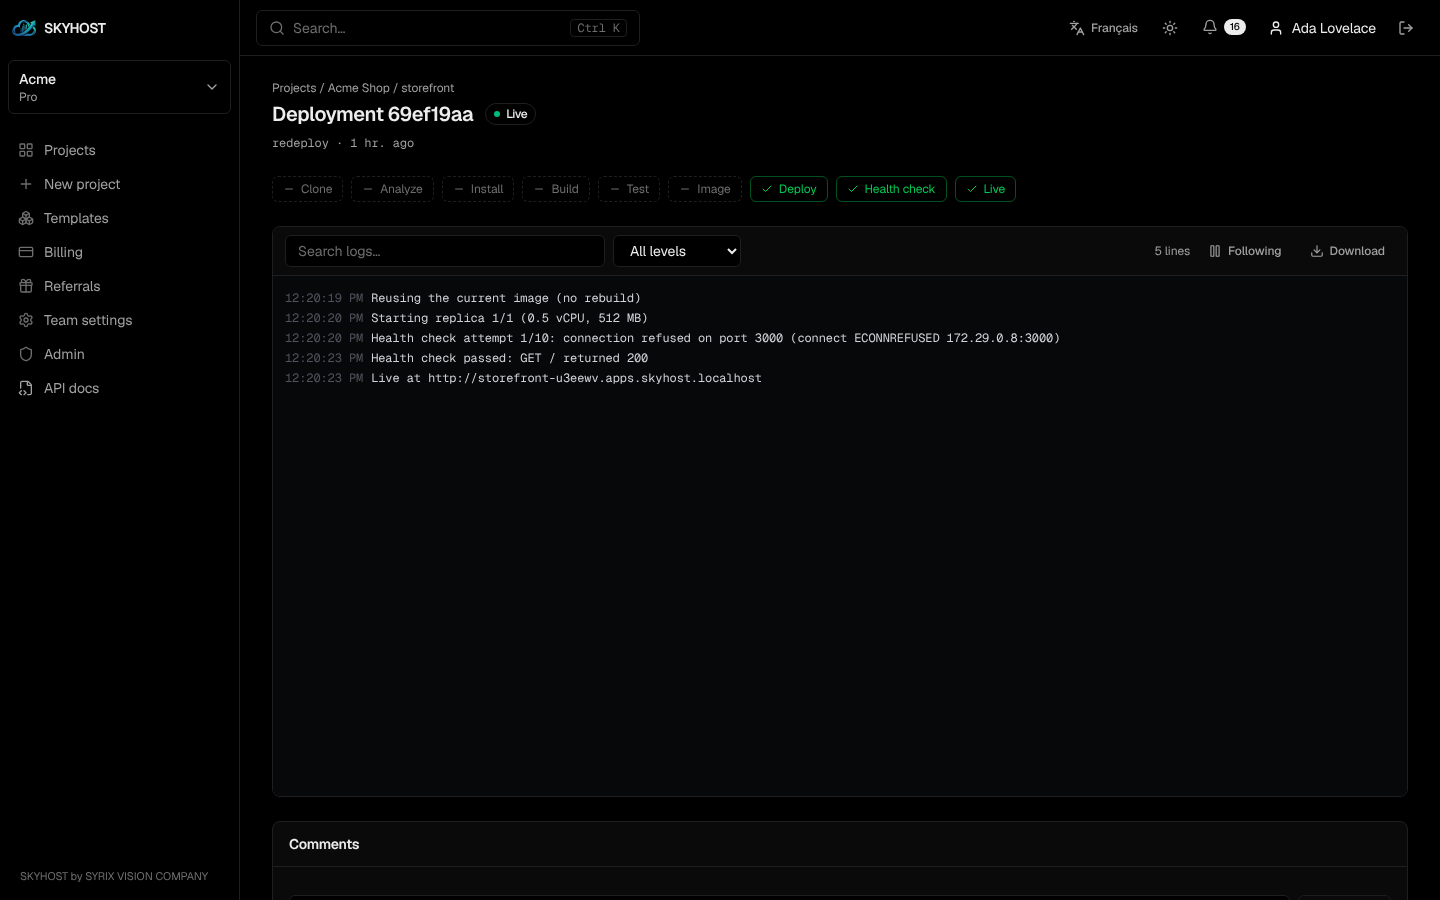
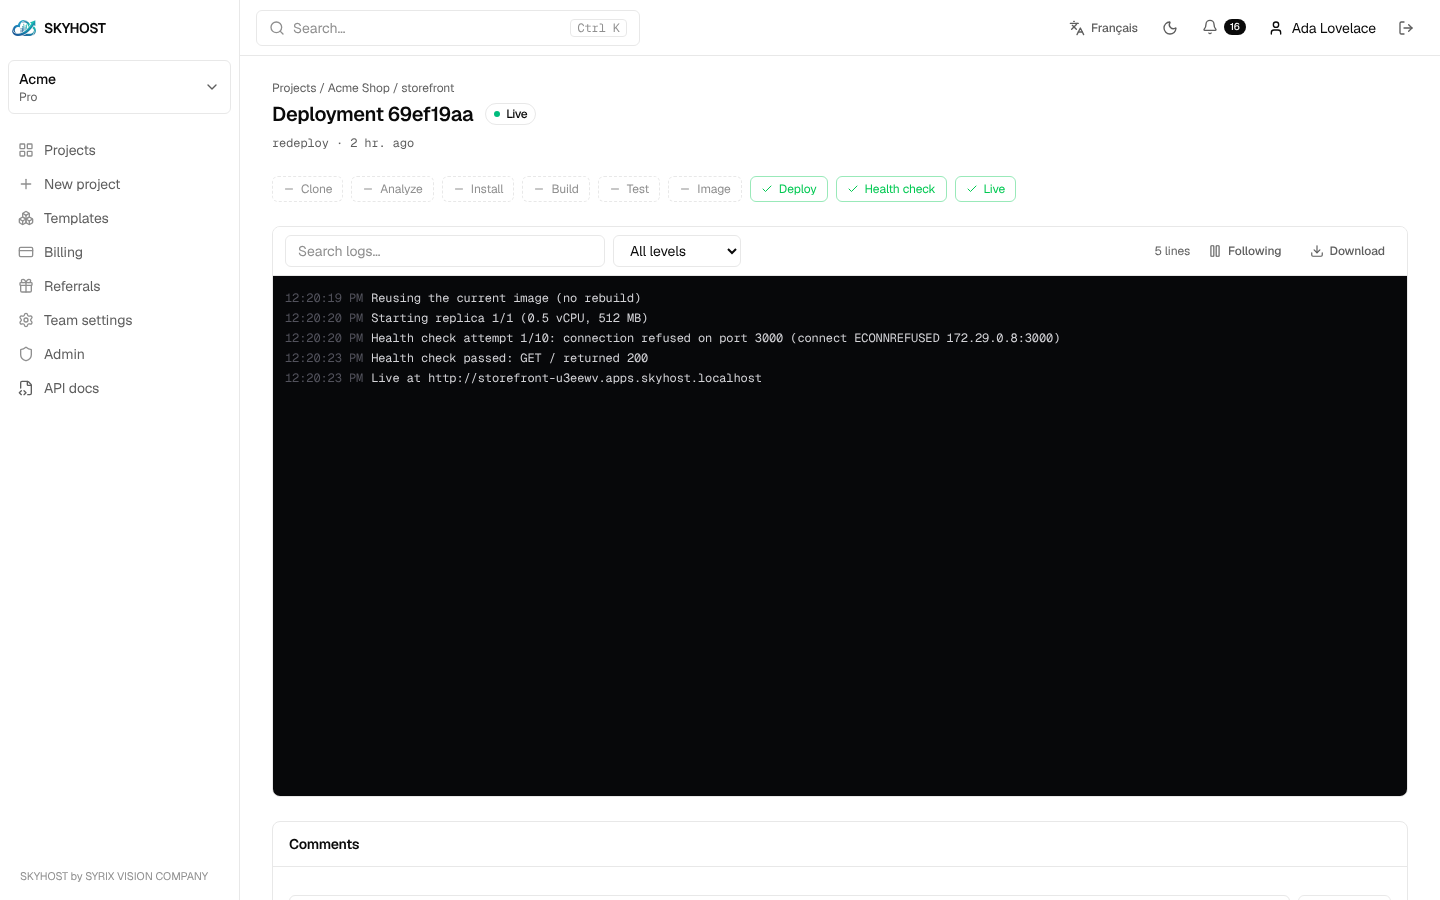
Make the light theme the default, with dark mode in account settings
The dashboard now opens in light mode. Dark mode is chosen in Account →
Appearance (or with the header toggle) and remembered in the browser.
Screenshots are refreshed in the light theme, with one dark-mode capture.

Claude-Session: https://claude.ai/code/session_01HM99gHDo1fmcDD451DGnML

diff --git a/apps/web/src/pages/Account.tsx b/apps/web/src/pages/Account.tsx
@@ -5,11 +5,12 @@ import { useTranslation } from "react-i18next";
 import { del, download, get, patch, post, put } from "../lib/api";
 import { setLanguage } from "../lib/i18n";
 import { useSession } from "../lib/session";
-import { Alert, Badge, Button, Card, CodeField, ConfirmDialog, Field, Input, LoadingRows, Modal, PageHeader, Select, Tabs, Toggle, timeAgo, useToast } from "../components/ui";
+import { Alert, Badge, Button, Card, CodeField, cx, ConfirmDialog, Field, Input, LoadingRows, Modal, PageHeader, Select, Tabs, Toggle, timeAgo, useToast } from "../components/ui";
 import { ApiKeys } from "./TeamSettings";
 import { t } from "../lib/i18n";
+import { useTheme, type Theme } from "../lib/theme";
 
-type Tab = "profile" | "security" | "sessions" | "notifications" | "apikeys" | "privacy";
+type Tab = "profile" | "security" | "sessions" | "notifications" | "apikeys" | "appearance" | "privacy";
 
 function Profile() {
   const { me, refresh } = useSession();
@@ -204,6 +205,44 @@ function Privacy() {
   );
 }
 
+function Appearance() {
+  const [theme, setTheme] = useTheme();
+  const options: Array<{ id: Theme; label: string; hint: string }> = [
+    { id: "light", label: t("Light"), hint: t("Default. White background, black text.") },
+    { id: "dark", label: t("Dark"), hint: t("Black background, easier on the eyes at night.") },
+  ];
+  return (
+    <Card title={t("Theme")}>
+      <div role="radiogroup" aria-label={t("Theme")} className="grid max-w-xl gap-3 sm:grid-cols-2">
+        {options.map((o) => (
+          <button
+            key={o.id}
+            type="button"
+            role="radio"
+            aria-checked={theme === o.id}
+            onClick={() => setTheme(o.id)}
+            className={cx("overflow-hidden rounded-lg border text-left transition-colors", theme === o.id ? "border-fg" : "border-line hover:border-line-strong")}
+          >
+            <div className={cx("flex h-20 gap-2 border-b border-line p-3", o.id === "dark" ? "bg-black" : "bg-white")} aria-hidden>
+              <div className={cx("w-10 rounded", o.id === "dark" ? "bg-neutral-800" : "bg-neutral-100")} />
+              <div className="flex flex-1 flex-col gap-1.5">
+                <div className={cx("h-2 w-2/3 rounded", o.id === "dark" ? "bg-neutral-200" : "bg-neutral-900")} />
+                <div className={cx("h-2 w-1/2 rounded", o.id === "dark" ? "bg-neutral-700" : "bg-neutral-300")} />
+                <div className={cx("mt-auto h-4 w-12 rounded", o.id === "dark" ? "bg-neutral-100" : "bg-neutral-900")} />
+              </div>
+            </div>
+            <div className="p-3">
+              <div className="text-sm font-medium">{o.label}</div>
+              <div className="text-xs text-muted">{o.hint}</div>
+            </div>
+          </button>
+        ))}
+      </div>
+      <p className="mt-3 text-xs text-muted">{t("Saved in this browser.")}</p>
+    </Card>
+  );
+}
+
 export default function Account() {
   const { t } = useTranslation();
   const [tab, setTab] = useState<Tab>("profile");
@@ -219,6 +258,7 @@ export default function Account() {
           { id: "sessions", label: t("Sessions") },
           { id: "notifications", label: t("Notifications") },
           { id: "apikeys", label: t("API keys") },
+          { id: "appearance", label: t("Appearance") },
           { id: "privacy", label: t("Privacy") },
         ]}
       />
@@ -228,6 +268,7 @@ export default function Account() {
         {tab === "sessions" && <Sessions />}
         {tab === "notifications" && <NotificationPrefs />}
         {tab === "apikeys" && <ApiKeys />}
+        {tab === "appearance" && <Appearance />}
         {tab === "privacy" && <Privacy />}
       </div>
     </>

diff --git a/apps/web/src/components/Layout.tsx b/apps/web/src/components/Layout.tsx
@@ -8,6 +8,7 @@ import { setLanguage } from "../lib/i18n";
 import { useRealtimeInvalidate, useSession } from "../lib/session";
 import { Button, cx, timeAgo, useToast } from "./ui";
 import { t } from "../lib/i18n";
+import { useTheme } from "../lib/theme";
 import { Logo } from "./Logo";
 import { useCapabilities } from "../lib/capabilities";
 
@@ -219,7 +220,8 @@ export function Layout({ children }: { children: ReactNode }) {
   const { me, team } = useSession();
   const { t, i18n } = useTranslation();
   const [palette, setPalette] = useState(false);
-  const [dark, setDark] = useState(() => document.documentElement.classList.contains("dark"));
+  const [theme, setTheme] = useTheme();
+  const dark = theme === "dark";
   const nav = useNavigate();
   useEffect(() => {
     const onKey = (e: KeyboardEvent) => {
@@ -233,16 +235,7 @@ export function Layout({ children }: { children: ReactNode }) {
     window.addEventListener("keydown", onKey);
     return () => window.removeEventListener("keydown", onKey);
   }, [nav]);
-  const toggleTheme = () => {
-    const next = !dark;
-    setDark(next);
-    document.documentElement.classList.toggle("dark", next);
-    try {
-      localStorage.setItem("sh-theme", next ? "dark" : "light");
-    } catch {
-      /* ignore */
-    }
-  };
+  const toggleTheme = () => setTheme(dark ? "light" : "dark");
   const item = (to: string, icon: ReactNode, label: string) => (
     <NavLink to={to} end={to === "/"} className={({ isActive }) => cx("flex items-center gap-2.5 rounded-md px-2.5 py-1.5 text-sm", isActive ? "bg-panel-2 font-medium text-fg [&>svg]:text-fg" : "text-muted hover:text-fg [&>svg]:text-faint")}>
       {icon}

diff --git a/apps/web/index.html b/apps/web/index.html
@@ -1,18 +1,21 @@
 <!doctype html>
-<html lang="en" class="dark">
+<html lang="en">
   <head>
     <meta charset="UTF-8" />
     <meta name="viewport" content="width=device-width, initial-scale=1.0" />
-    <meta name="color-scheme" content="dark light" />
-    <meta name="theme-color" content="#000000" />
+    <meta name="color-scheme" content="light dark" />
+    <meta name="theme-color" content="#ffffff" />
     <link rel="icon" type="image/png" sizes="64x64" href="/favicon-64.png" />
     <link rel="icon" type="image/png" sizes="32x32" href="/favicon-32.png" />
     <link rel="apple-touch-icon" href="/brand/skyhost-mark-192.png" />
     <title>SKYHOST</title>
     <script>
       try {
-        var t = localStorage.getItem("sh-theme");
-        if (t === "light") document.documentElement.classList.remove("dark");
+        // Light by default; dark when the user chose it in Account → Appearance.
+        if (localStorage.getItem("sh-theme") === "dark") {
+          document.documentElement.classList.add("dark");
+          document.querySelector('meta[name="theme-color"]').setAttribute("content", "#000000");
+        }
       } catch (e) {}
     </script>
   </head>

diff --git a/apps/web/e2e/smoke.spec.ts b/apps/web/e2e/smoke.spec.ts
@@ -51,11 +51,15 @@ test("sign up, dashboard, theme and language", async ({ page }) => {
   await signup(page);
   // No SMTP in this environment: email verification cannot be required, so no banner asks for it.
   await expect(page.getByText("Verify your email address to deploy.")).toHaveCount(0);
-  // Dark mode is the default; the toggle switches to light and persists.
+  // Light mode is the default; dark mode is chosen in Account → Appearance and persists.
+  await expect(page.locator("html")).not.toHaveClass(/dark/);
+  await page.goto("/account");
+  await page.getByRole("tab", { name: "Appearance" }).click();
+  await page.getByRole("radio", { name: /Dark/ }).click();
+  await expect(page.locator("html")).toHaveClass(/dark/);
+  await page.reload();
   await expect(page.locator("html")).toHaveClass(/dark/);
   await page.getByRole("button", { name: /theme/i }).click();
-  await expect(page.locator("html")).not.toHaveClass(/dark/);
-  await page.reload();
   await expect(page.locator("html")).not.toHaveClass(/dark/);
   // French translation
   await page.getByRole("button", { name: /^(Language|Langue)$/ }).click();

diff --git a/apps/web/src/lib/theme.ts b/apps/web/src/lib/theme.ts
@@ -1,0 +1,31 @@
+import { useEffect, useState } from "react";
+
+export type Theme = "light" | "dark";
+const KEY = "sh-theme";
+const EVENT = "sh-theme-change";
+
+/** Light by default; dark only when the user chose it (stored in this browser). */
+export function currentTheme(): Theme {
+  return document.documentElement.classList.contains("dark") ? "dark" : "light";
+}
+
+export function setTheme(theme: Theme) {
+  document.documentElement.classList.toggle("dark", theme === "dark");
+  document.querySelector('meta[name="theme-color"]')?.setAttribute("content", theme === "dark" ? "#000000" : "#ffffff");
+  try {
+    localStorage.setItem(KEY, theme);
+  } catch {
+    /* storage unavailable: the choice lasts for this page only */
+  }
+  window.dispatchEvent(new Event(EVENT));
+}
+
+export function useTheme(): [Theme, (t: Theme) => void] {
+  const [theme, set] = useState<Theme>(currentTheme);
+  useEffect(() => {
+    const on = () => set(currentTheme());
+    window.addEventListener(EVENT, on);
+    return () => window.removeEventListener(EVENT, on);
+  }, []);
+  return [theme, setTheme];
+}

diff --git a/README.md b/README.md
@@ -36,8 +36,10 @@ Captured from a real installation (the Docker Compose stack of this repository),
 | **Deploy hooks** and per-service **maintenance page** | **Administration**: users, teams, plans, abuse, payments, maintenance |
 | ![Sign in](docs/screenshots/01-sign-in.png) | ![Sign up](docs/screenshots/17-sign-up.png) |
 | **Sign in**: GitHub and Google show "Not available yet" until configured | **Sign up**: password strength, OAuth providers |
-| ![Light mode](docs/screenshots/12-light-mode.png) | ![Dashboard in French](docs/screenshots/13-french.png) |
-| **Light mode** (dark by default) | **English and French** |
+| ![Dark mode](docs/screenshots/12-dark-mode.png) | ![Appearance settings](docs/screenshots/18-appearance.png) |
+| **Dark mode** (light by default) | **Appearance**: choose light or dark in Account settings |
+| ![Dashboard in French](docs/screenshots/13-french.png) | |
+| **English and French** | |
 
 ## Features
 
@@ -60,7 +62,7 @@ Captured from a real installation (the Docker Compose stack of this repository),
 - **Deploy hooks** (secret URLs for CI), per-service **maintenance pages**, and platform **maintenance mode**.
 - **Sign-in** with email and password (2FA), GitHub, Google or GitLab. Any integration that is not configured is
   shown as "Not available yet" instead of failing.
-- **Dashboard** in English and French, dark mode by default and light mode, plus a **CLI** (`skyhost`).
+- **Dashboard** in English and French, light mode by default and a dark mode (Account → Appearance), plus a **CLI** (`skyhost`).
 
 ## Quick start (single server)
 
